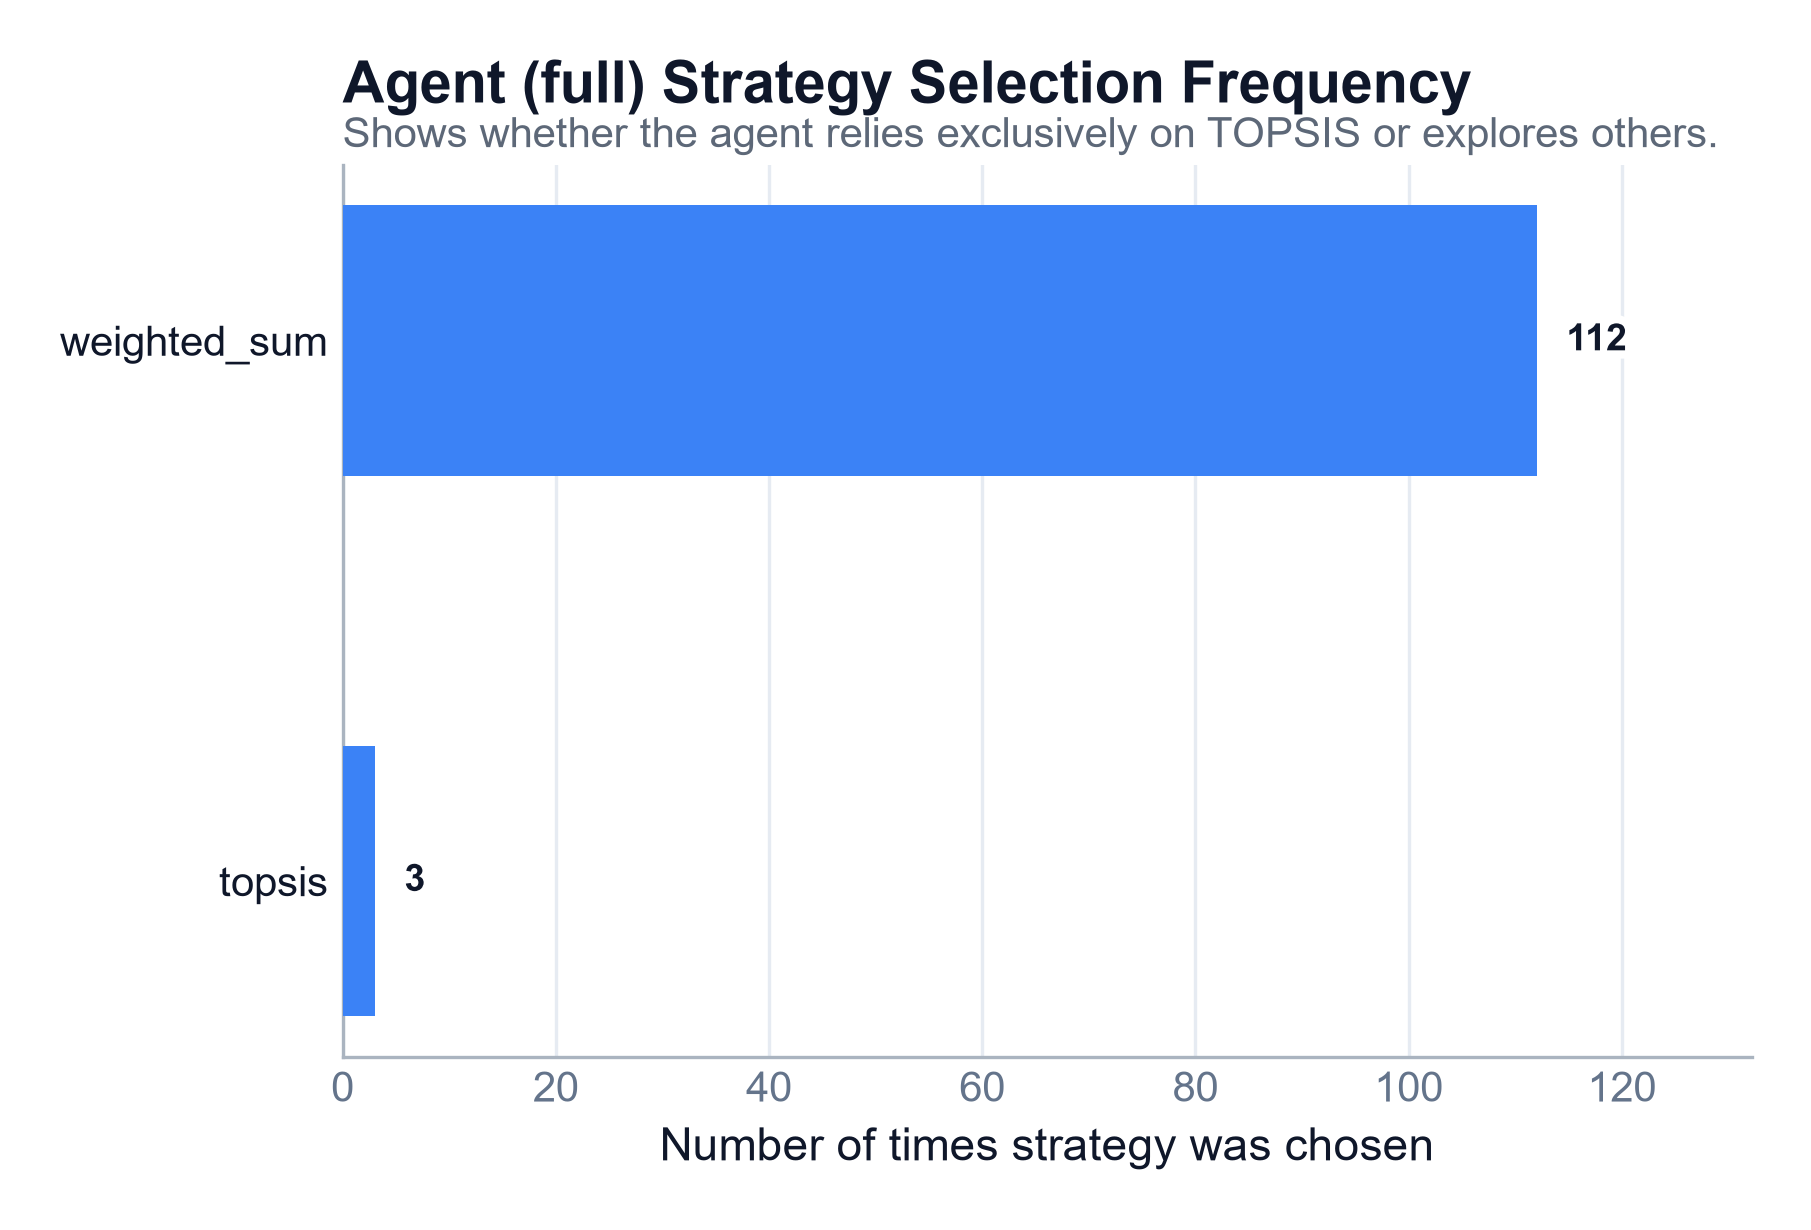
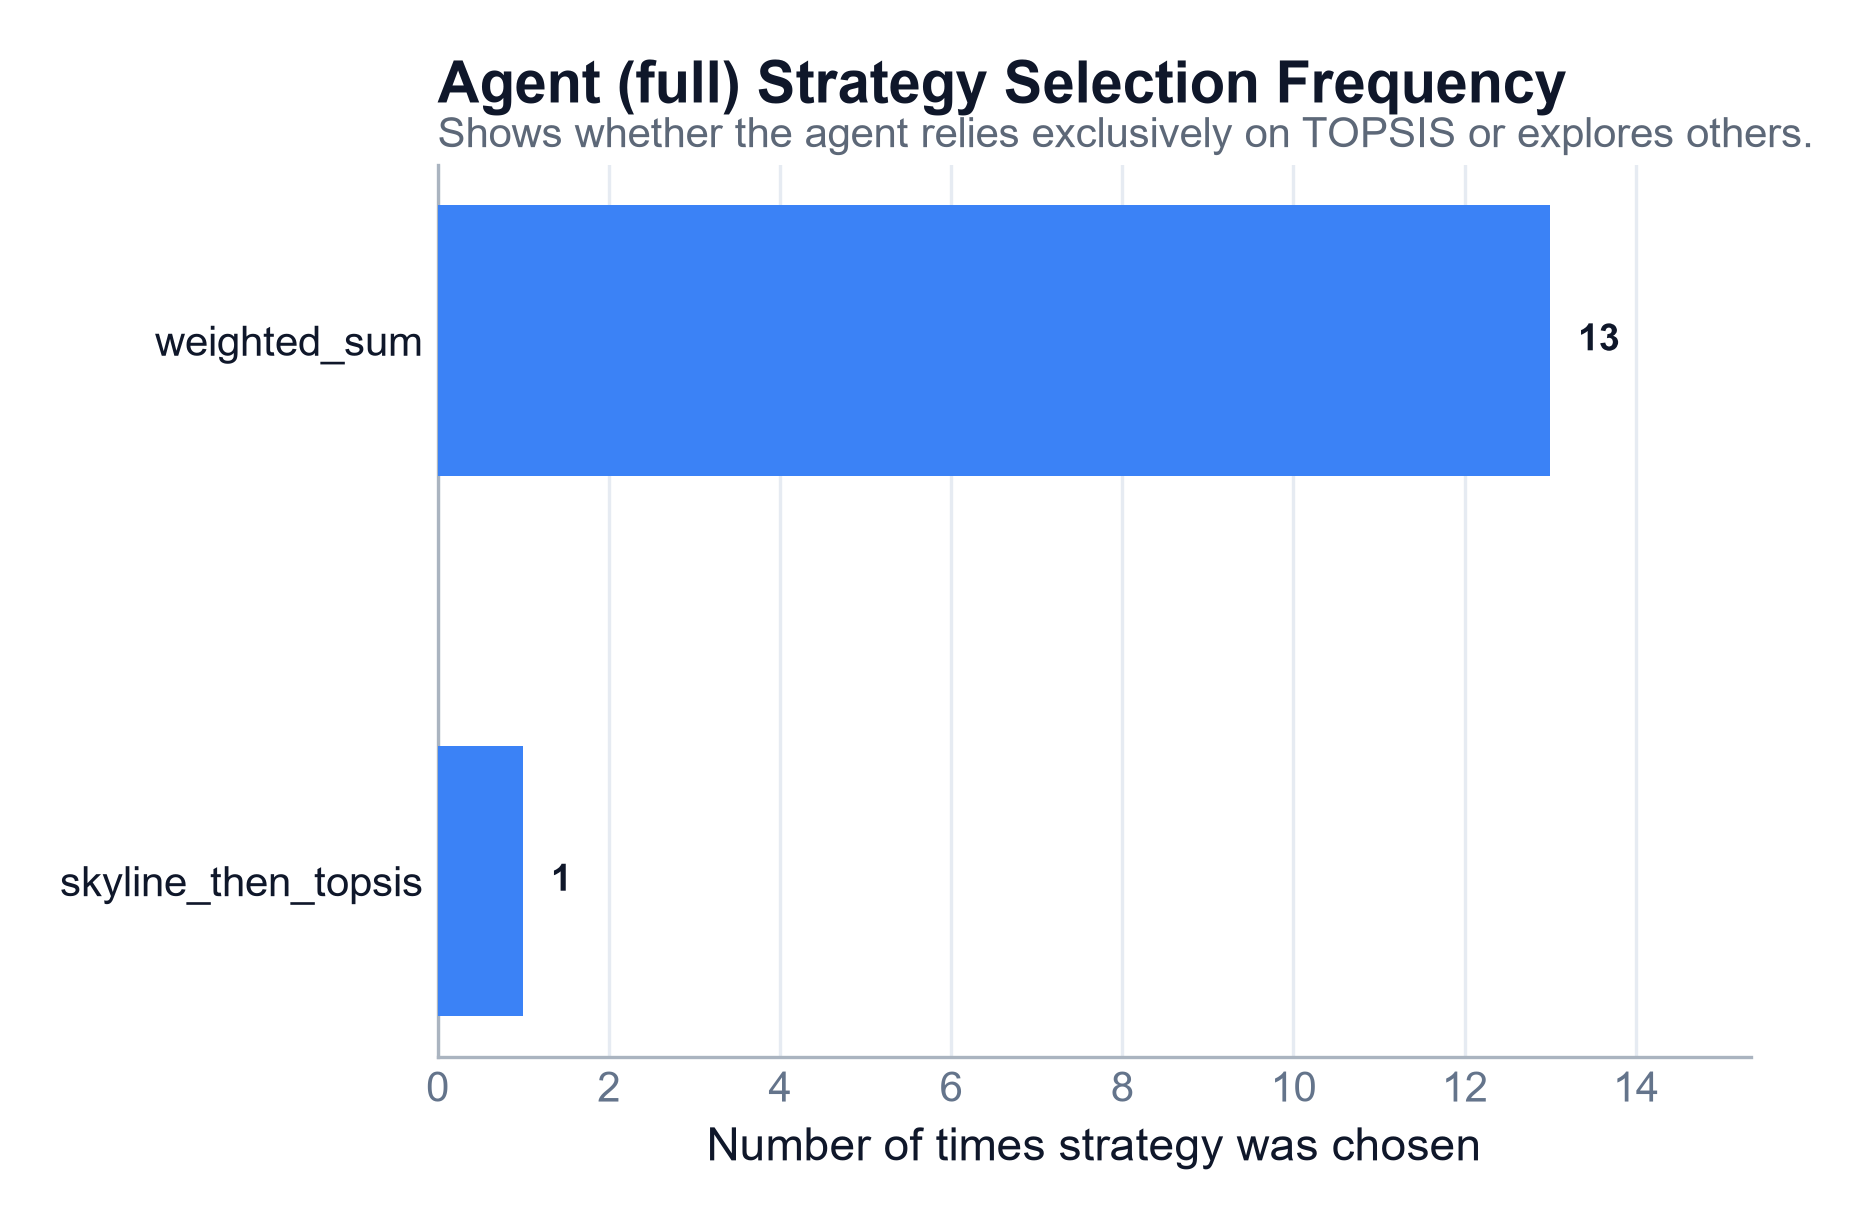
Refactor and update strategy_selection_frequency.png and related files

diff --git a/src/agentic_selection/agent/__init__.py b/src/agentic_selection/agent/__init__.py
@@ -13,7 +13,9 @@ from agentic_selection.agent.reasoning import (
     LLMOutputParseError,
     build_prompt,
     parse_llm_json,
-    get_agent_decision_raw,
+    ReasoningStrategy,
+    DirectWeightReasoner,
+    ClassificationReasoner,
 )
 from agentic_selection.agent.validation import ValidationResult, validate_agent_output, default_degenerate_threshold
 from agentic_selection.agent.memory import MemoryStore, MemoryRecord, make_record, format_digest
@@ -24,7 +26,8 @@ __all__ = [
     "LLMBackend", "AnthropicBackend", "OpenAIBackend", "OllamaBackend", "MockBackend",
     "DemoHeuristicBackend", "infer_demo_decision", "infer_demo_profile",
     "build_backend_from_config",
-    "DEFAULT_TOOL_MENU", "LLMOutputParseError", "build_prompt", "parse_llm_json", "get_agent_decision_raw",
+    "DEFAULT_TOOL_MENU", "LLMOutputParseError", "build_prompt", "parse_llm_json", 
+    "ReasoningStrategy", "DirectWeightReasoner", "ClassificationReasoner",
     "ValidationResult", "validate_agent_output", "default_degenerate_threshold",
     "MemoryStore", "MemoryRecord", "make_record", "format_digest",
     "AgentController", "AgentDecision", "ACTION_DISPATCH",
